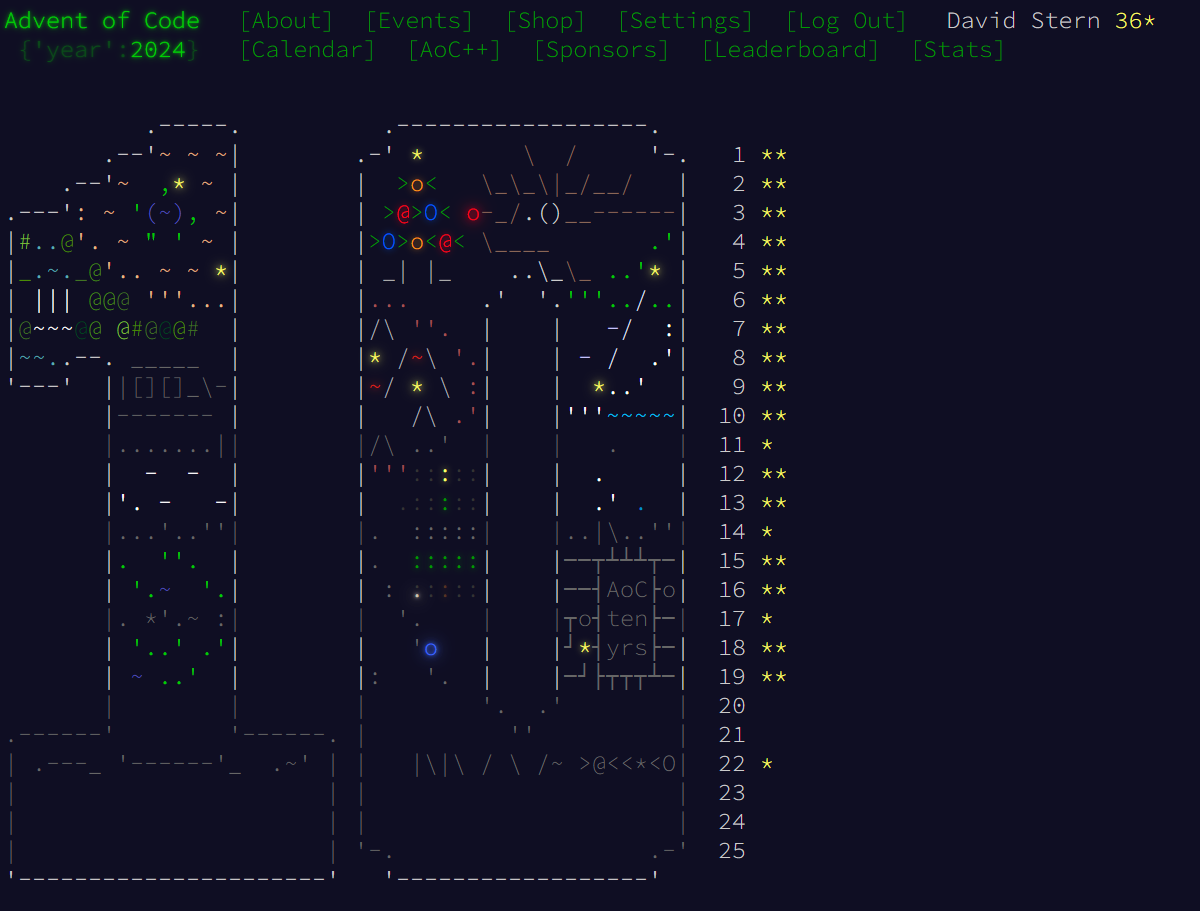
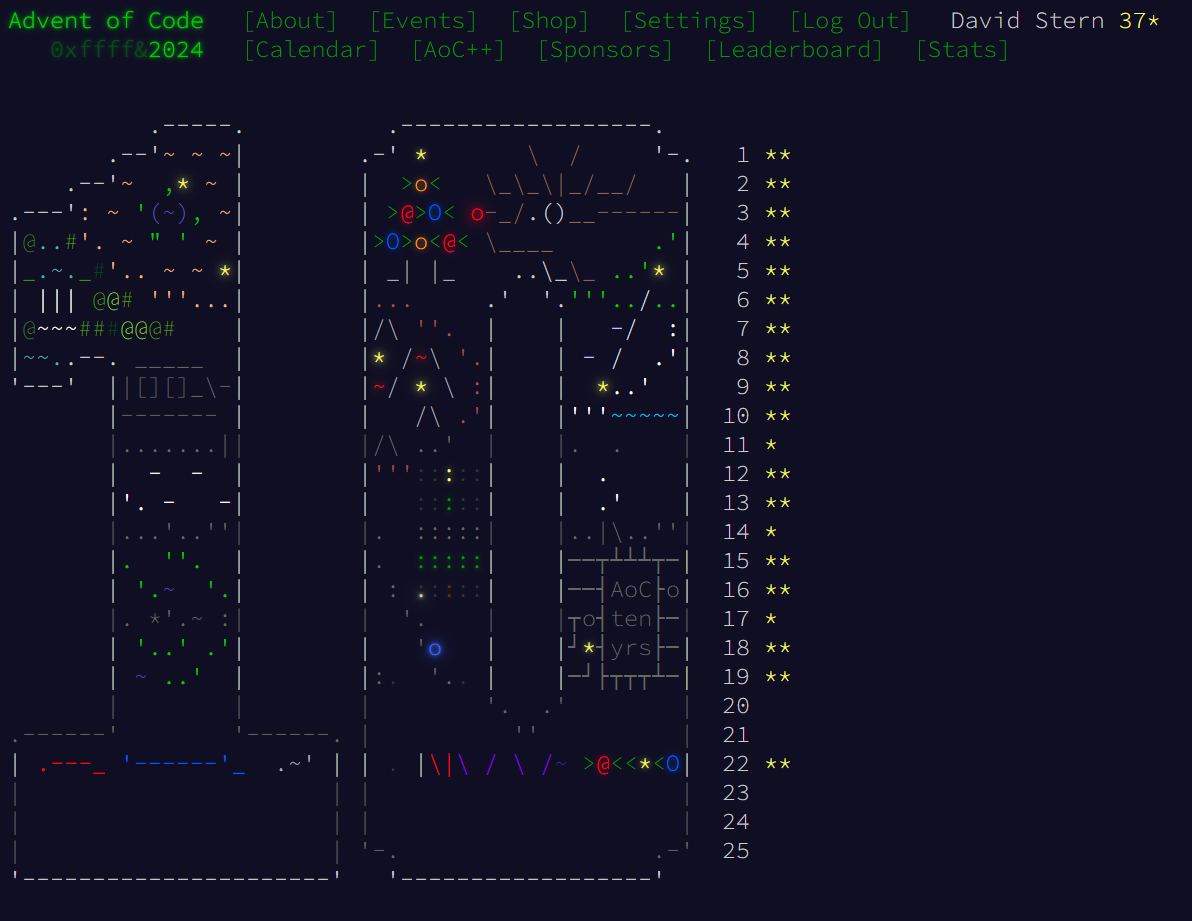
Finished Day22 Part2

diff --git a/src/advent_solutions/day22.rs b/src/advent_solutions/day22.rs
@@ -1,3 +1,5 @@
+use std::collections::{HashMap, HashSet};
+
 use super::{read_input_file, SolveAdvent};
 
 pub struct Day22;
@@ -17,8 +19,38 @@ fn find_nth_secret_number(first_number: i64, n: usize) -> i64 {
     secret_number
 }
 
+type PriceChangeMap = HashMap<[i64; 4], i64>;
+
+fn generate_price_changes_map(starting_number: i64, max_price_changes: usize) -> anyhow::Result<PriceChangeMap> {
+    //! Generate a map of groupings of 4 price deltas mapped to the sales price (the price the banans would sell for 
+    //! if sold after the given 4 price delta sequence is seen by the monkey.)
+    let mut secret_numbers = vec![starting_number];
+    let mut secret_number = starting_number;
+    for _ in 0..max_price_changes {
+        secret_number = find_nth_secret_number(secret_number, 1);
+        secret_numbers.push(secret_number);      
+    }
+    let digits = secret_numbers.into_iter().map(|num| num.to_string().chars().last().unwrap().to_digit(10).unwrap() as i64).collect::<Vec<_>>();
+    let deltas = digits.iter().zip(digits.iter().skip(1)).map(|(num1, num2)| *num2 - *num1).collect::<Vec<_>>();
+    let mut price_change_map = HashMap::new();
+    let mut lower = 0;
+    //Slide the window of size 4 1 at a time, and record the window deltas mapped to the corresponding digits value.
+    while let Some(price_delta) = deltas.get(lower..lower + 4) {
+        let deltas: [i64; 4] = price_delta.try_into().map_err(|_| anyhow::anyhow!("Failed to coerce to length 4 array"))?;
+        if let Some(sales_price) = digits.get(lower + 4){
+            //or_insert is used because only the first iteration of a sequence of 4 deltas
+            //will ever be seen by the monkey, so it is imperative to prevent repeat sequences
+            //from overwriting any values already in the map.
+            price_change_map.entry(deltas).or_insert(*sales_price);
+        }
+        lower += 1;
+    }
+    Ok(price_change_map)
+}
+
 impl SolveAdvent for Day22 {
     fn solve_part1(path_to_file: &str) -> anyhow::Result<()> {
+        //! Simply apply the formula the correct number of times.
         let secret_number_iterations = 2000;
         let file_contents = read_input_file(path_to_file)?;
         let starting_numbers = file_contents.trim().lines().map(|num| num.parse::<i64>()).collect::<Result<Vec<_>, _>>()?;
@@ -29,7 +61,20 @@ impl SolveAdvent for Day22 {
         println!("Total of all secret numbers after {} iterations is: {}", secret_number_iterations, total_secret_numbers);
         Ok(())
     }
-    fn solve_part2(_path_to_file: &str) -> anyhow::Result<()> {
+    fn solve_part2(path_to_file: &str) -> anyhow::Result<()> {
+        //! Index each of the 2001 secret numbers price deltas to the corresponding sales price.
+        //! Then iterate over the unique 4-delta groupings, and compute the max possible number of bananas sold.
+        let file_contents = read_input_file(path_to_file)?;
+        let secret_number_iterations = 2000;
+        let starting_numbers = file_contents.trim().lines().map(|num| num.parse::<i64>()).collect::<Result<Vec<_>, _>>()?;
+        let price_change_maps = starting_numbers.into_iter().map(|starting_number| generate_price_changes_map(starting_number, secret_number_iterations)).collect::<Result<Vec<_>, _>>()?;
+        let all_price_changes = price_change_maps.iter().flat_map(|price_change_map| price_change_map.keys()).collect::<HashSet<_>>();
+        let mut max_possible_bananas = 0;
+        for price_change_sequence in all_price_changes {
+            let total_bananas = price_change_maps.iter().map(|price_change_map| price_change_map.get(price_change_sequence).unwrap_or(&0)).sum::<i64>();
+            max_possible_bananas = max_possible_bananas.max(total_bananas);
+        }
+        println!("Max possible bananas for a single 4 price change is {}", max_possible_bananas);
         Ok(())
     }
 }

diff --git a/src/main.rs b/src/main.rs
@@ -4,6 +4,6 @@ use crate::advent_solutions::SolveAdvent;
 
 fn main() -> anyhow::Result<()> {
     Day22::solve_part1("input.txt")?;
-    Day22::solve_part2("test.txt")?;
+    Day22::solve_part2("input.txt")?;
     Ok(())
 }

diff --git a/README.md b/README.md
@@ -1,5 +1,5 @@
 ## Progress Summary
-Just like last year, I am working through the 2024 [Advent of Code](https://adventofcode.com/2024) problems. I currently have `36` stars. Each day's solutions are found in the `/advent_solutions` folder under the day in question. As requested by the creator of the problems, I do not provide the input text, only the code solutions. To run a certain solution, ensure that the correct input text is placed in an `input.txt` file. Just like last year, solutions implement the following trait: 
+Just like last year, I am working through the 2024 [Advent of Code](https://adventofcode.com/2024) problems. I currently have `37` stars. Each day's solutions are found in the `/advent_solutions` folder under the day in question. As requested by the creator of the problems, I do not provide the input text, only the code solutions. To run a certain solution, ensure that the correct input text is placed in an `input.txt` file. Just like last year, solutions implement the following trait: 
 ```rust
 pub trait SolveAdvent {
     ///How to solve part1 of the days puzzle.
